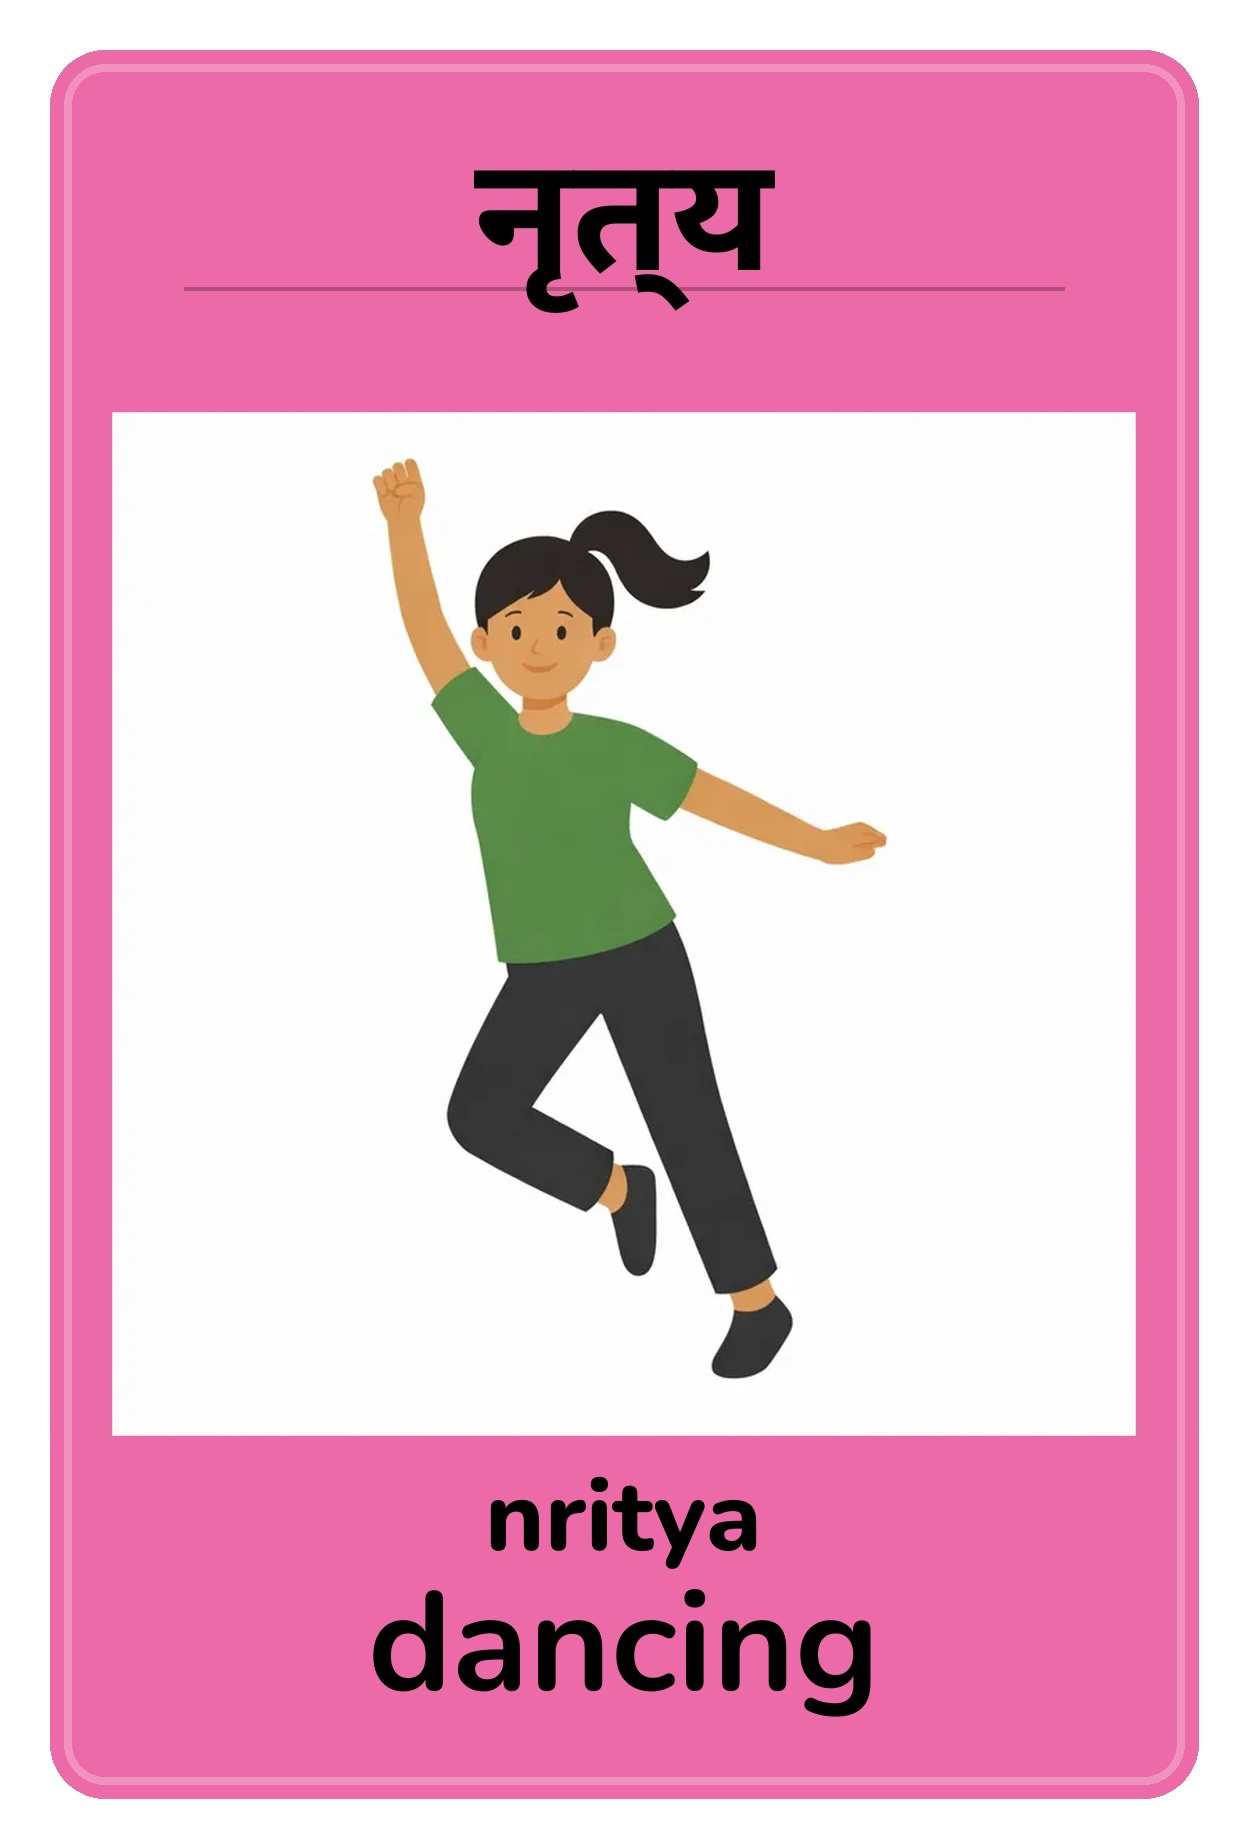
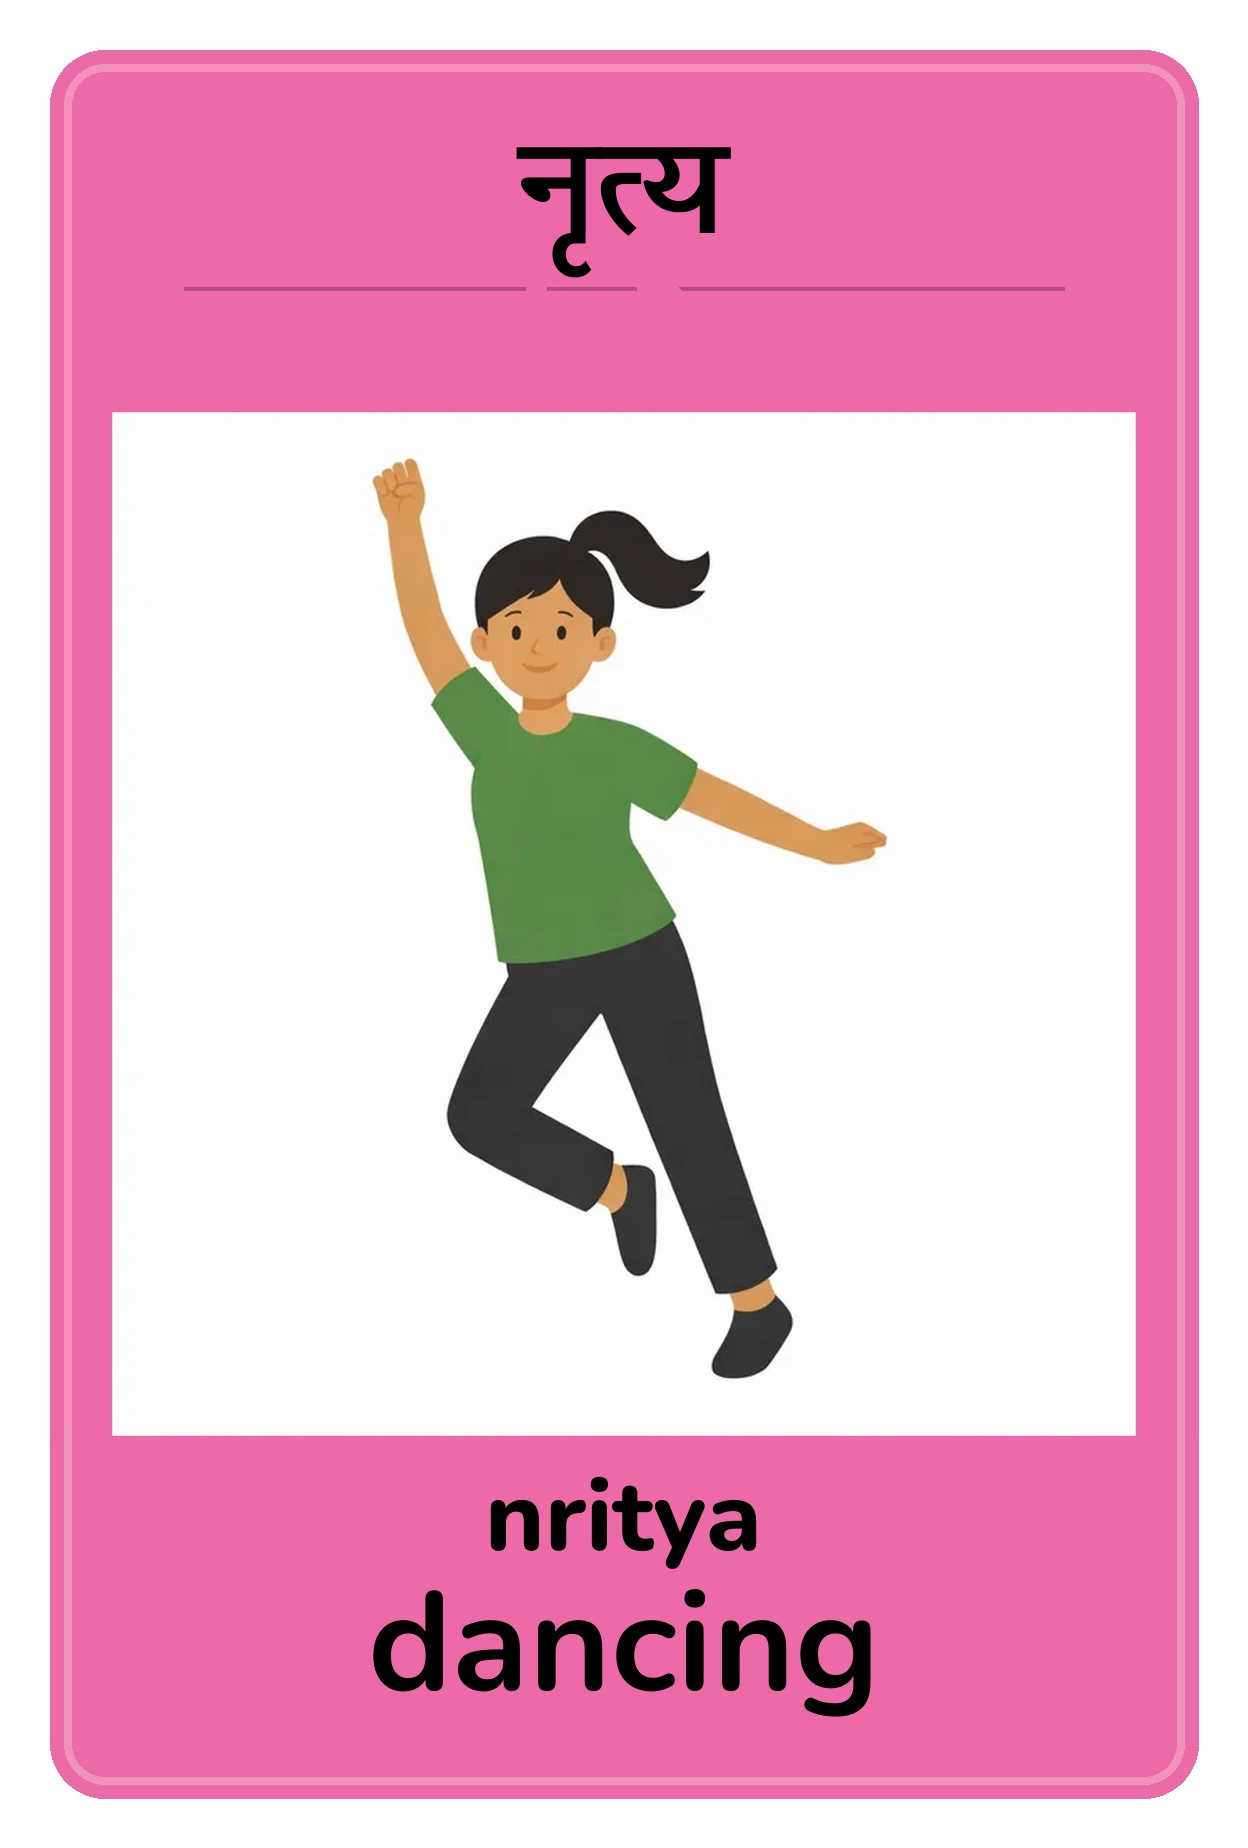
Repaint Hindi headers so basketball and dancing read बास्केटबॉल and नृत्य
The card labels were already those spellings. The baked headers used a half-form that looked like a hanging halant. Bump the demo cache to v86 so the new images replace the cached cards.

Changed region(s): [[0.375, 0.0617, 0.625, 0.1851]]

diff --git a/sw.js b/sw.js
@@ -10,7 +10,7 @@
    Bump CACHE_VERSION on every deploy. Old caches are deleted on
    activate, so a stale stylesheet can never outlive a release.       */
 
-const CACHE_VERSION = 'v85';
+const CACHE_VERSION = 'v86';
 const SHELL_CACHE   = `ptw-shell-${CACHE_VERSION}`;
 const ASSET_CACHE   = `ptw-assets-${CACHE_VERSION}`;
 
